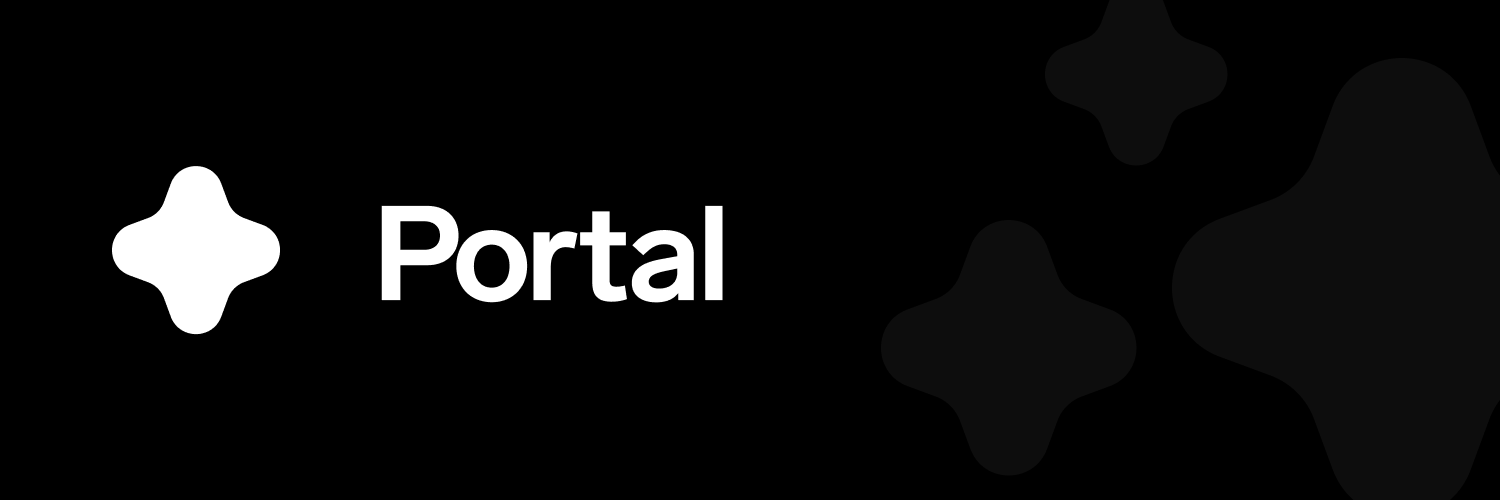
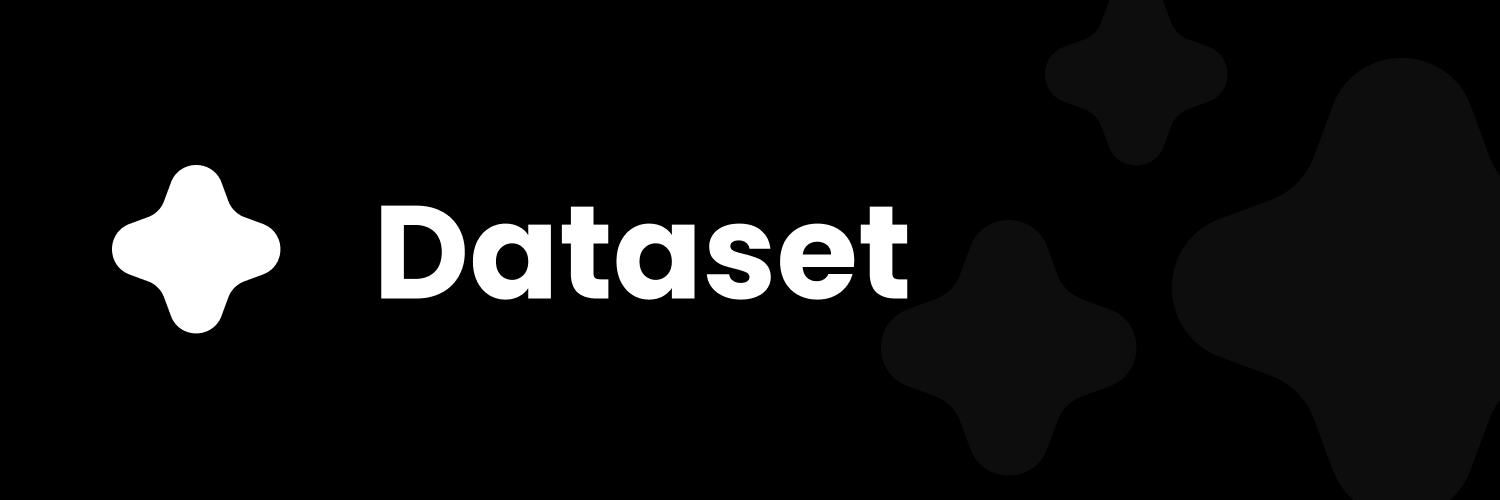
Update opengraph images

Changed region(s): [[0.2453, 0.39, 0.6133, 0.6], [0.1227, 0.33, 0.1533, 0.36]]

diff --git a/index.html b/index.html
@@ -10,11 +10,11 @@
   <meta property="og:type" content="website" />
   <meta property="og:title" content="Dataset | The new standard for your datasets 🚀">
   <meta property="og:description" content="Dataset.at is the next-generation data workspace for professionals and teams">
-  <meta property="og:image" content="https://dataset.at/assets/images/dataset-opengraph.jpg">
+  <meta property="og:image" content="https://dataset.at/assets/images/dataset-opengraph.png">
   <meta property="og:url" content="https://dataset.at">
   <meta name="twitter:title" content="Dataset | The new standard for your datasets 🚀">
   <meta name="twitter:description" content="Dataset.at is the next-generation data workspace for professionals and teams">
-  <meta name="twitter:image" content="https://dataset.at/assets/images/dataset-opengraph.jpg">
+  <meta name="twitter:image" content="https://dataset.at/assets/images/dataset-opengraph.png">
   <meta name="twitter:site" content="@datasetHQ">
   <meta name="twitter:creator" content="@datasetHQ">
   <meta name="robots" content="index, follow">
